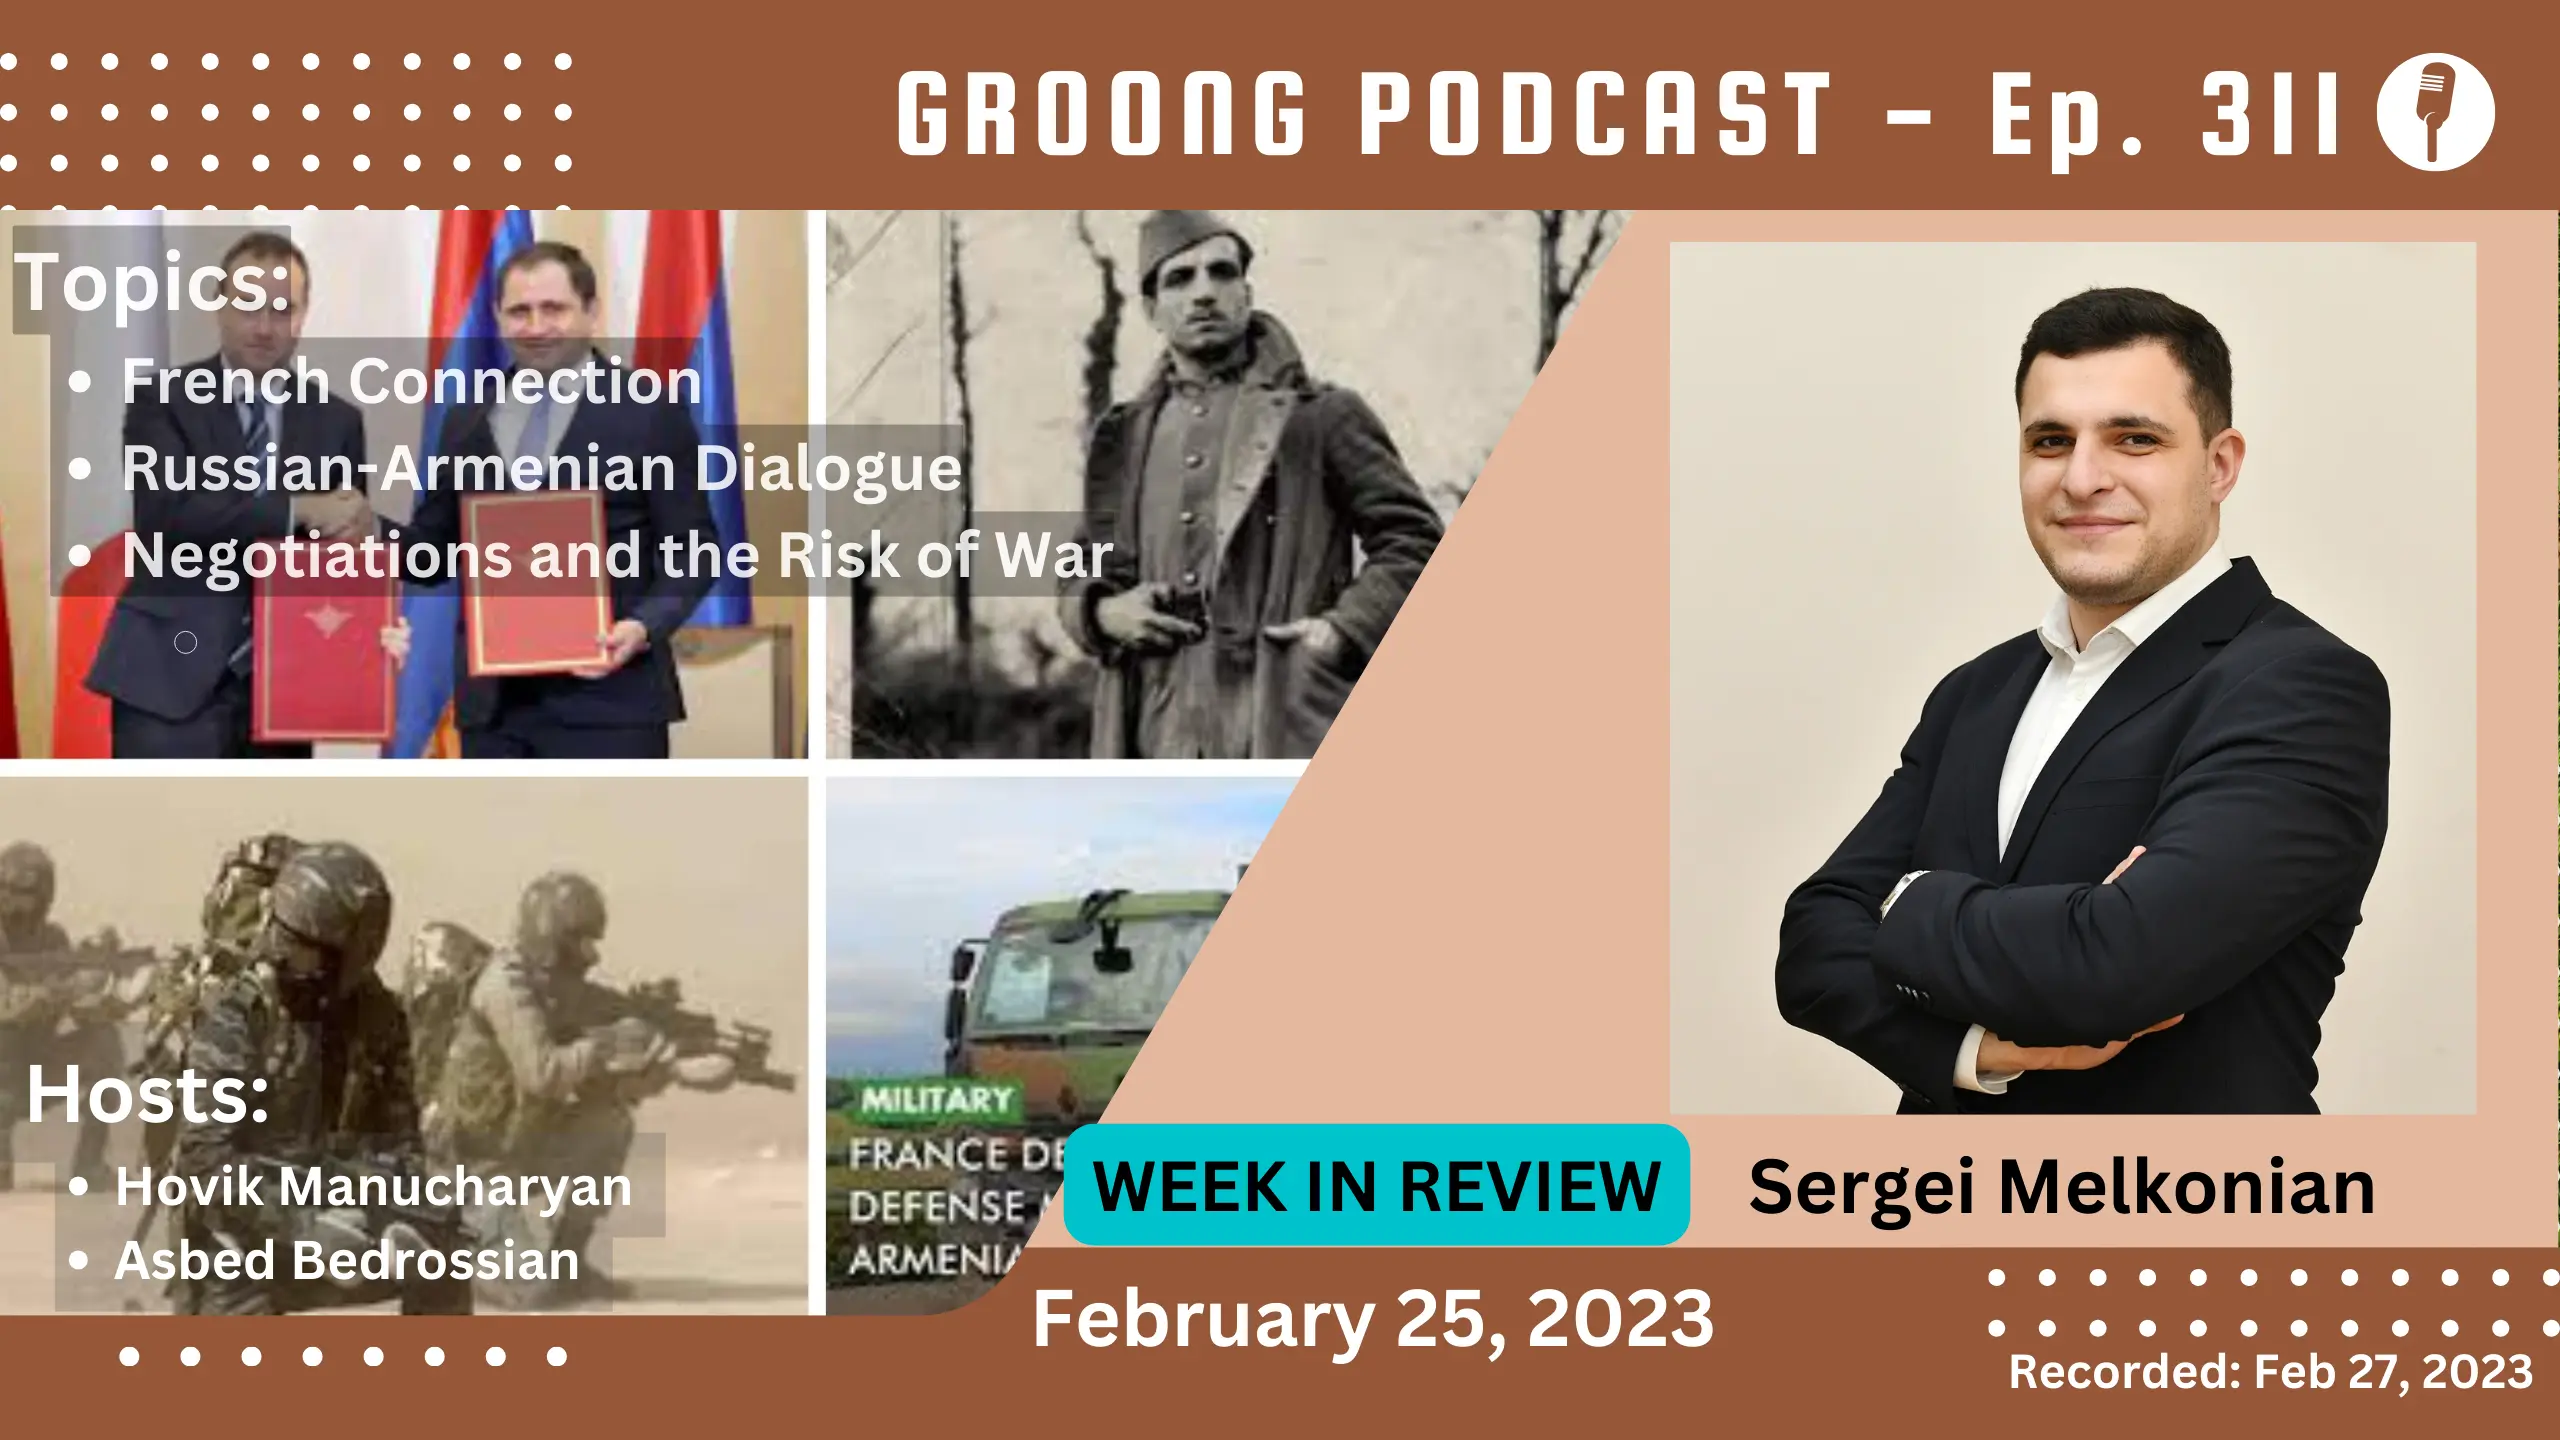
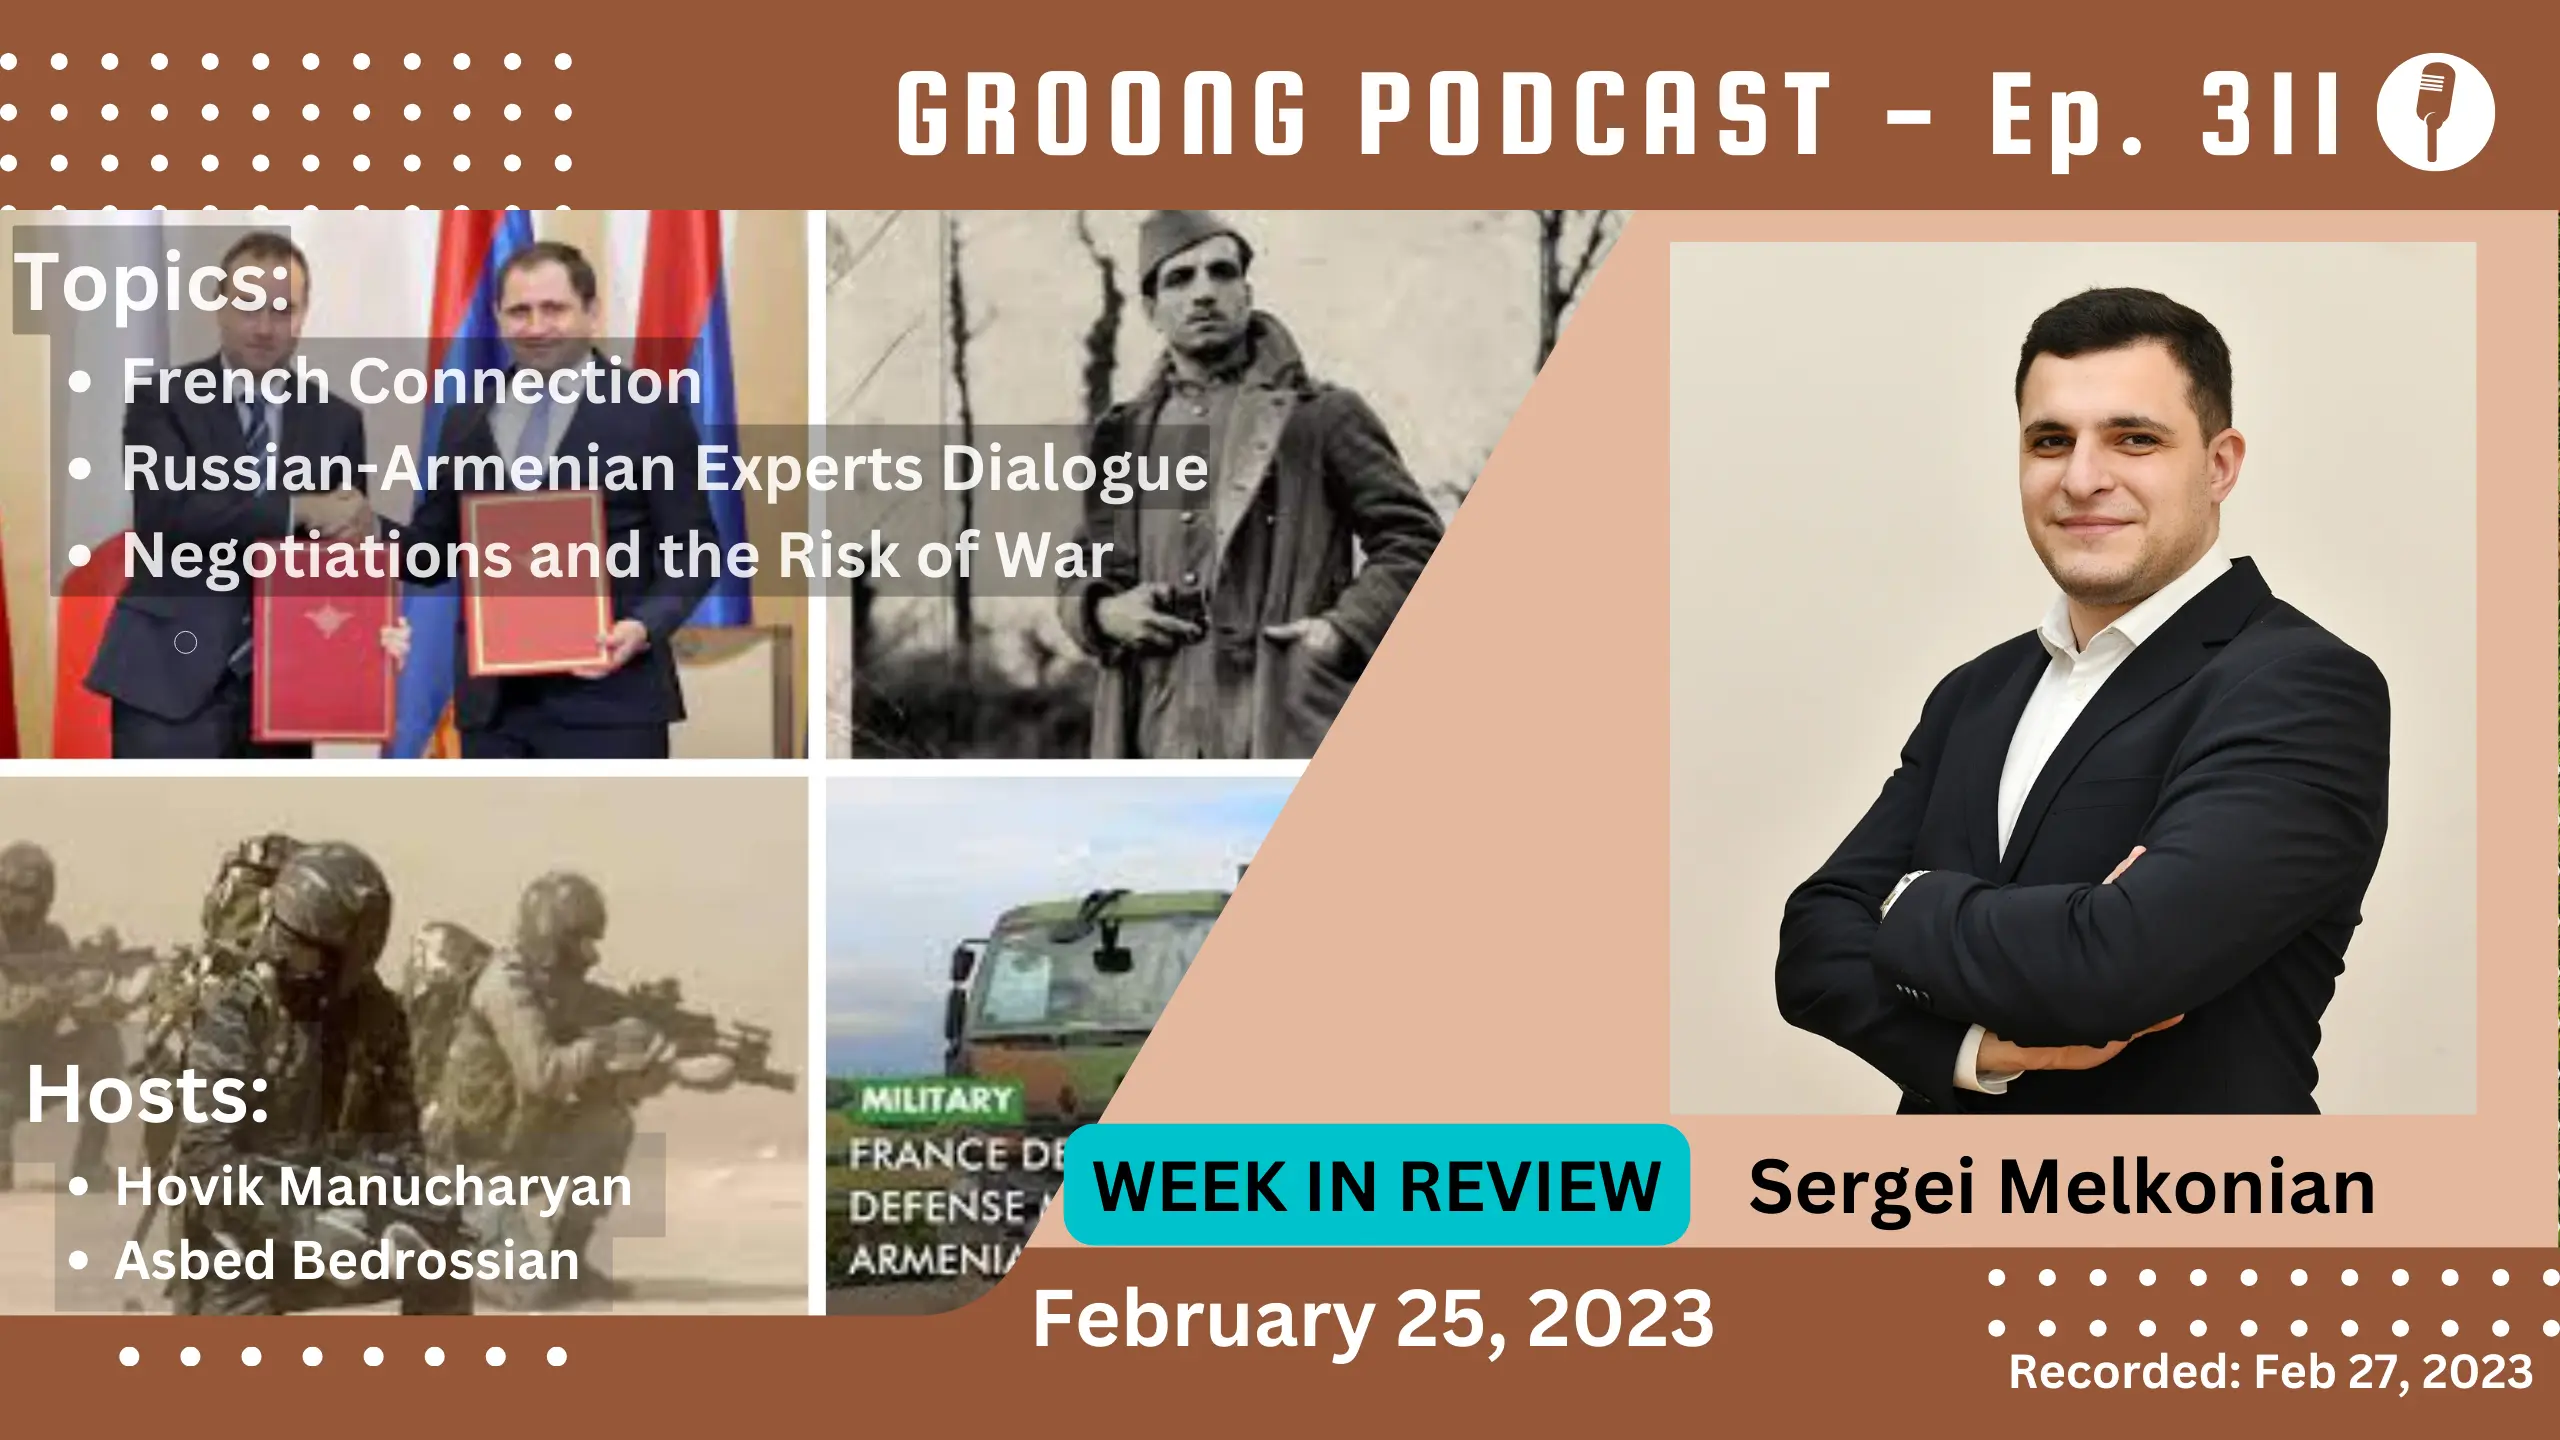
Go live EP 311 with Sergei Melkonian

Changed region(s): [[0.2812, 0.2812, 0.5, 0.375]]

diff --git a/content/episode/311-sergei-melkonian-french-armenian-defense-cooperation-misak-manouchian-russian-relations-risk-of-war-with-azerbaijan.md b/content/episode/311-sergei-melkonian-french-armenian-defense-cooperation-misak-manouchian-russian-relations-risk-of-war-with-azerbaijan.md
@@ -1,15 +1,15 @@
 +++
 
 Date = 2024-02-27T00:15:00-07:00
-upcoming = true
+upcoming = false
 
 
-title = "Sergei Melkonian - French Connection | Russian-Armenian Dialog | Negotiations & Risk of War | Ep 311, Feb 25, 2023"
-subtitle = "Armenian News Network Groong - February 25, 2023"
+title = "Sergei Melkonian - French Connection | Russian-Armenian Dialog | Negotiations & Risk of War | Ep 311, Feb 25, 2024"
+subtitle = "Armenian News Network Groong - February 25, 2024"
 
-podcast_file = ""
-podcast_bytes = ""
-podcast_duration = ""
+podcast_file = "14591953-sergei-melkonian-french-connection-russian-armenian-dialog-negotiations-risk-of-war-ep-311-feb-25-2024.mp3"
+podcast_bytes = "30028529"
+podcast_duration = "2500"
 youtube = ""
 
 episode_image = "img/episode/311/thumbnail-311.webp"
@@ -39,10 +39,73 @@ Description = """
 * Russian-Armenian Dialog
 * Negotiations and Risk of War
 
-Episode 311 | Recorded: February 27, 2023"""
+Episode 311 | Recorded: February 27, 2024"""
 
 +++
 
+## French Connection
+
+### Missak Manouchian
+
+On February 21, the French government held a historic ceremony where the remains of Missak Manouchian (and his wife Meline) were interred in the Panthéon in Paris. Manouchian was an Armenian genocide survivor who during the second world war joined the French resistance and led a number of daring operations that liquidated more than a 100 Nazis.
+
+This is a pretty big honor. Manouchian is now in the company of the great Frenchmen like Voltaire, Jean-Jacques Rousseau, Marie Curie, Alexandre Dumas and others. This event was covered widely in the French press. Pashinyan was invited and attended.
+
+The day before the Manouchian ceremony, France’s defense minister, Sébastien Lecornu, [paid a visit](https://www.azatutyun.am/a/32832694.html) to Armenia.
+
+Lecornu [confirmed](https://www.azatutyun.am/a/32832694.html) that just the night before, Armenia had received a shipment of French night vision equipment. He also promised that soon they will deliver air defense radar systems and more of the Bastion APCs that Armenia had ordered last year. The French also promised training for the weapons and joint military exercises with Armenia. 
+
+**Questions:**
+* Why did the French government decide to re-bury and honor Missak Manouchian now?
+* How is Russia reacting to these French weapon deliveries?
+* Is Iran uneasy about these weapons, especially radar systems? Do they worry that these weapons are essentially a “NATO eye” on the border of Iran?
+
+There were also [reports](https://www.agoravox.fr/tribune-libre/article/armenie-le-grand-ecart-253311) that Pashinyan and Macron inked an intelligence sharing deal between France’s Directorate-General for External Security and Armenia’s newly found External Intelligence Agency.
+
+**Questions:**
+* What's known about this deal, considering Pashinyan appears to be in constant touch with the CIA and MI6?
+* Are the potential benefits of such a U-turn away from our traditional allies, Russia and Iran worth the benefits we may receive?
+
+
+### Military Supplies, Zelensky
+
+While in Paris, Pashinyan gave an interview to France 24. We’ll skip the part of the interview where he praises Manouchian, a fighter against the Nazi occupation regime in France. Although we do ask, what would Manouchian do if he found himself in Armenia, today.
+
+Anyway, Pashinyan as always made several controversial statements about geopolitics:
+* First, when asked about the Ukraine conflict, for the 2nd time he reiterated that on the matter of the Ukraine war, Armenia and Russia were not allies.
+* He went further, by saying that Russia is violating Ukraine’s territorial integrity defined by the 1991 Alma Ata declaration.
+* And lastly, he said that Armenia has frozen its participation in the CSTO alliance. A claim that was later denied by the CSTO, saying they’ve never received any request from Armenia to freeze its participation.
+
+It is widely being reported that Vladimir Zelensky is planning a visit to Armenia in March.~~ ~~Other sources have reported that Zelensky will also visit Azerbaijan. With the exception of the Baltic countries, no post-Soviet country has hosted Zelensky since the beginning of the war, so this is a pretty big deal and will certainly raise the ire of Putin. 
+
+On one hand, as we reported last week, the Armenian authorities are not ruling out their intention to arrest Putin. On another hand, they’re inviting Putin’s enemy Zelensky to visit Armenia.
+
+**Question**:
+* What could Pashinyan's goal be in these unnecessary and provocative statements, culminating with the news about Zelensky’s visit?
+
+
+## Expert Discussions on Russian - Armenian Relations
+
+Sergei, on Saturday February 24, there was a [major discussion](https://www.youtube.com/live/wZOA2IVtRmE?si=8Cb7dKrKOzCIfKAs) held between Russian and Armenian experts on the state of relations between the two countries. You and your colleagues from the Armenian project were in attendance.
+
+**Question:**
+* What is your overall impression of the dialogue?
+
+According to some Russian experts on the panel, Russia is currently conducting a “damage control” policy with regard to Armenia. In other words, a passive policy. At the same time, some of the experts blamed Armenia itself for worsening relations between two countries.
+
+**Questions:**
+* Were you able to detect any introspection by the Russians?
+* Do any of them accept that some of their policies have contributed to damaging the Armenian-Russian relationship?
+
+
+## Risk of New War
+
+This week, Azerbaijan has again increased its fake reports that Armenians have been shooting at them, a common M.O. before Azerbaijan  escalates the situation. 
+
+In Munich, Pashinyan said that with Aliyev they were able to re-establish all the previous commitments. Then in interviews with the media he goes to say that Azerbaijan wants to start a new war.
+
+**Question:**
+* So which is it? Are we headed for peace or new military conflict? And if it’s the latter, how likely is a new war?
 
 
 # Wrap-up
